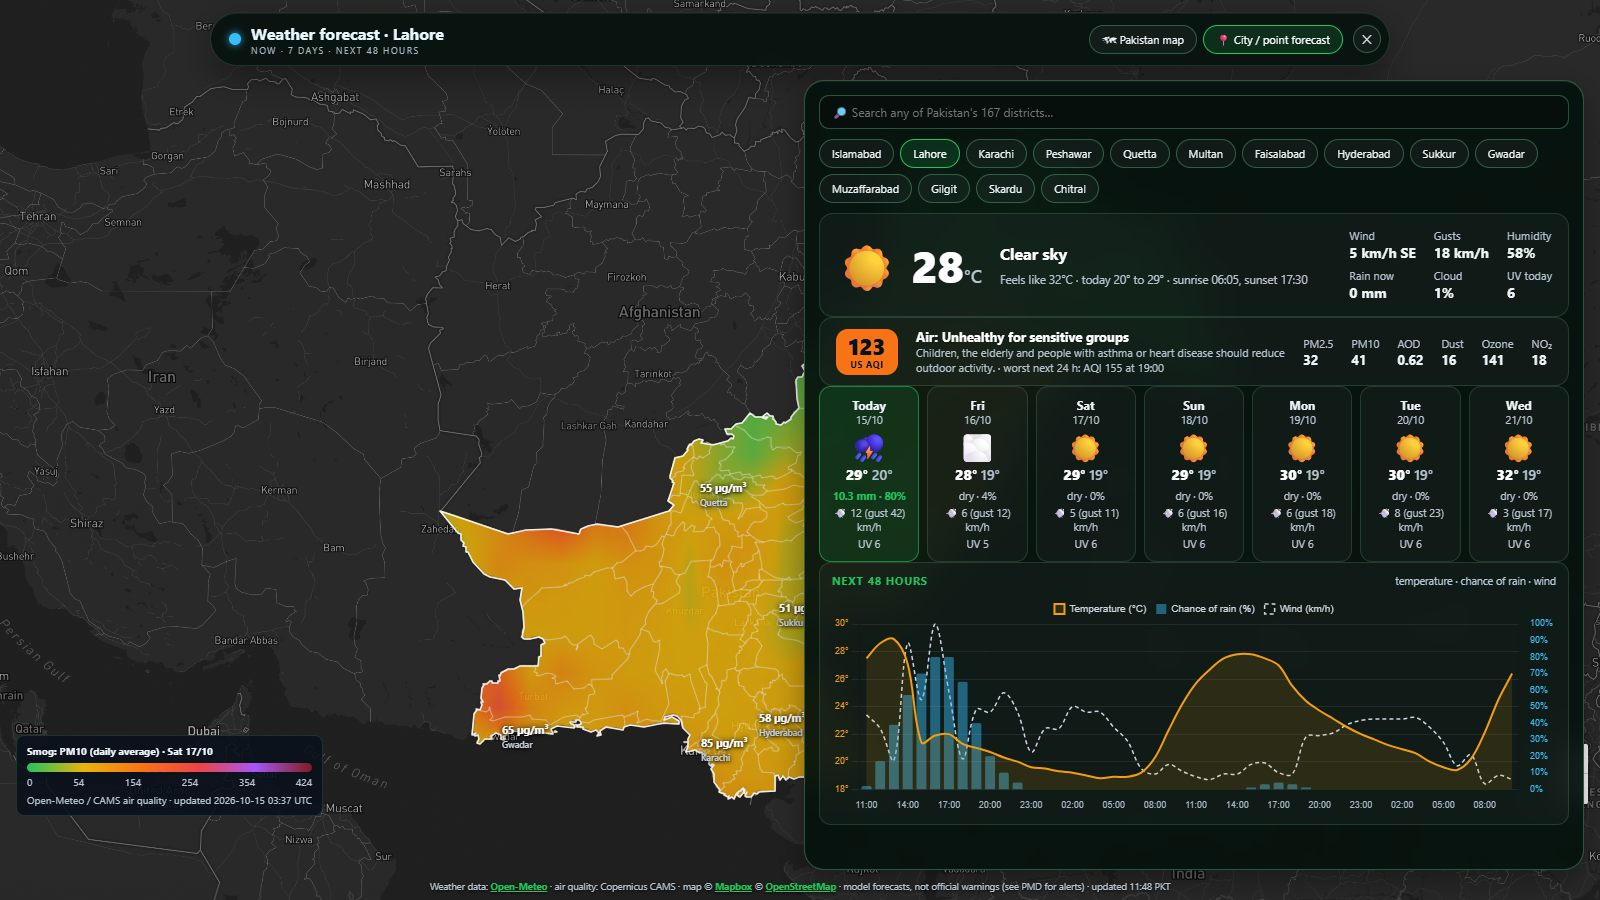
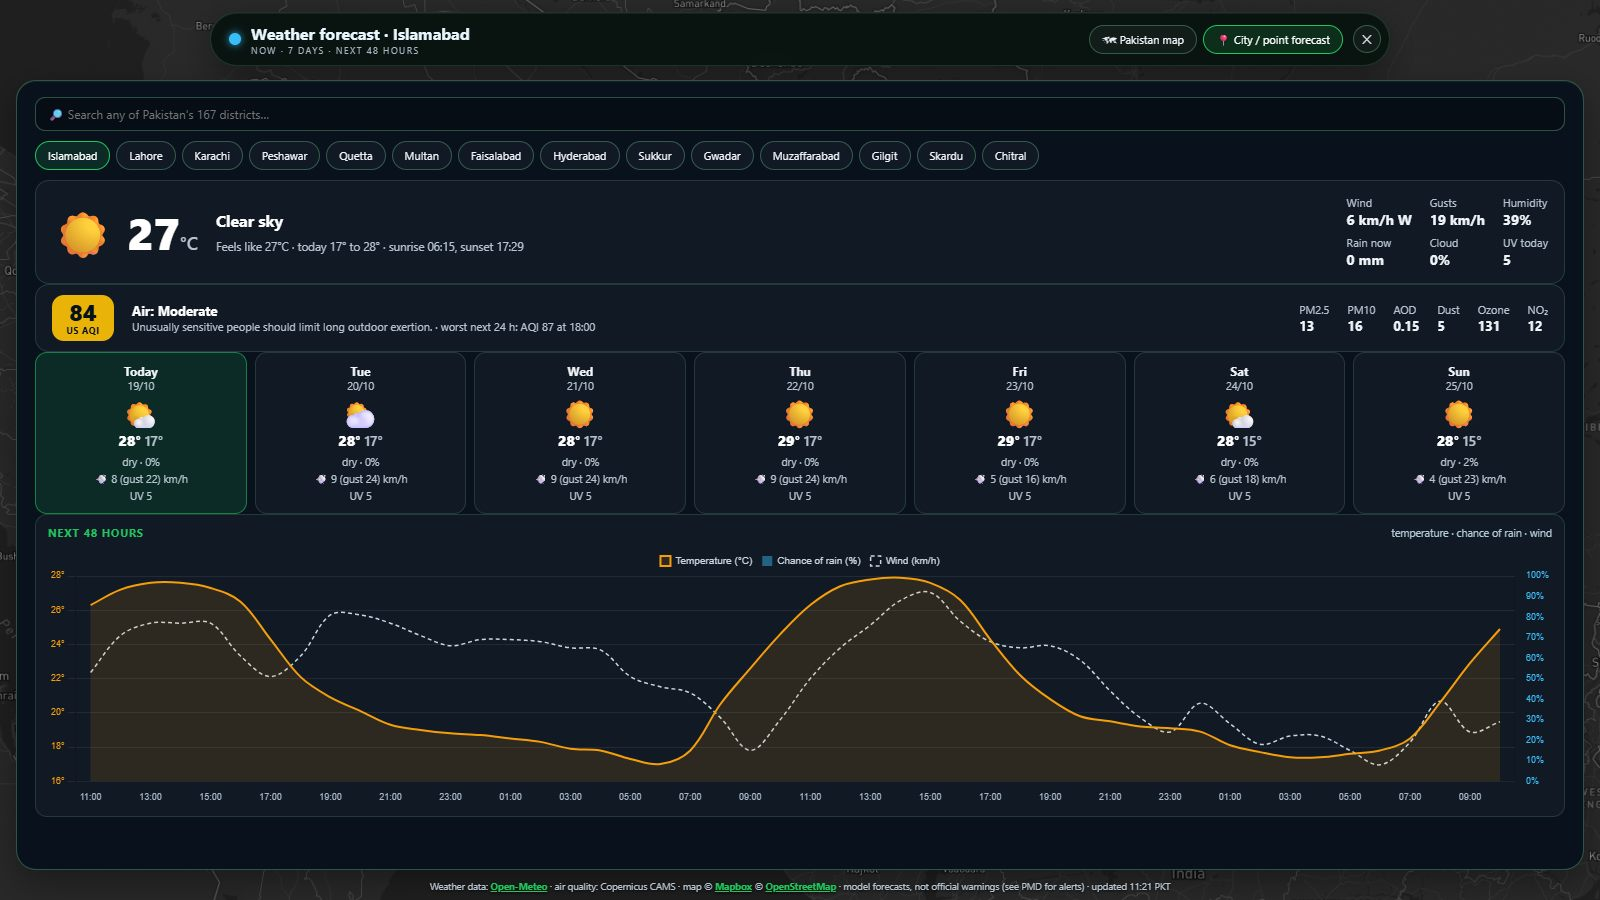
Forecast: city / point forecast fills the whole screen
The panel spans the full window under the header (was a 780 px side panel over the map); the
48-hour chart grows with the screen height. README screenshot updated.

diff --git a/frontend/src/styles.css b/frontend/src/styles.css
@@ -378,6 +378,7 @@ body.showRight .leaflet-bottom.leaflet-right{right:342px}
 #pkMsg.on{position:absolute;z-index:1000;top:50%;left:50%;transform:translate(-50%,-50%);max-width:420px;border-radius:14px;background:var(--surface);border:1px solid var(--border)}
 #mbModal .mbCredit{position:absolute;z-index:1000;left:0;right:0;bottom:8px;font-size:9.5px;text-shadow:0 1px 3px #000;pointer-events:none}
 #mbModal .mbCredit a{pointer-events:auto}
-/* City / point forecast: a floating panel on the right, the map stays visible beside it */
-#mbModal .fcView[data-view=city].on{position:absolute;z-index:1000;top:80px;right:16px;bottom:30px;width:min(780px,calc(100vw - 32px));overflow-y:auto;padding:14px;border-radius:20px;background:rgba(5,18,13,.94);backdrop-filter:blur(16px);border:1px solid var(--border-strong);box-shadow:var(--glass-shadow);scrollbar-width:thin;scrollbar-color:var(--border-strong) transparent}
-#mbModal[data-view=city] .pkInfo{display:none}
+/* City / point forecast: full screen under the header (the map is back one click away, on the Pakistan map tab) */
+#mbModal .fcView[data-view=city].on{position:absolute;z-index:1000;top:80px;left:16px;right:16px;bottom:30px;overflow-y:auto;padding:16px 18px;border-radius:20px;background:#08111c;border:1px solid var(--border-strong);box-shadow:var(--glass-shadow);scrollbar-width:thin;scrollbar-color:var(--border-strong) transparent}
+#mbModal .fcView[data-view=city].on .fcChartBox{height:max(260px,calc(100vh - 640px))}
+#mbModal[data-view=city] .pkInfo,#mbModal[data-view=city] .pkLegend,#mbModal[data-view=city] .leaflet-control-container{display:none}

diff --git a/README.md b/README.md
@@ -39,7 +39,7 @@ It runs as one small Python server. The data is refreshed in the background and 
 | 3D globe | 3D terrain with live weather |
 |---|---|
 | ![3D globe](docs/screenshots/globe-3d.jpg) | ![3D terrain](docs/screenshots/terrain-3d.jpg) |
-| **Forecast map: PM10 by district** | **City forecast over the map** |
+| **Forecast map: PM10 by district** | **City forecast, full screen** |
 | ![Forecast map](docs/screenshots/forecast-map.jpg) | ![City forecast](docs/screenshots/forecast-city.jpg) |
 | **Upper-level winds (500 hPa)** | **Driver analysis: jet stream** |
 | ![Winds](docs/screenshots/wind.jpg) | ![Driver card](docs/screenshots/driver-card.jpg) |
